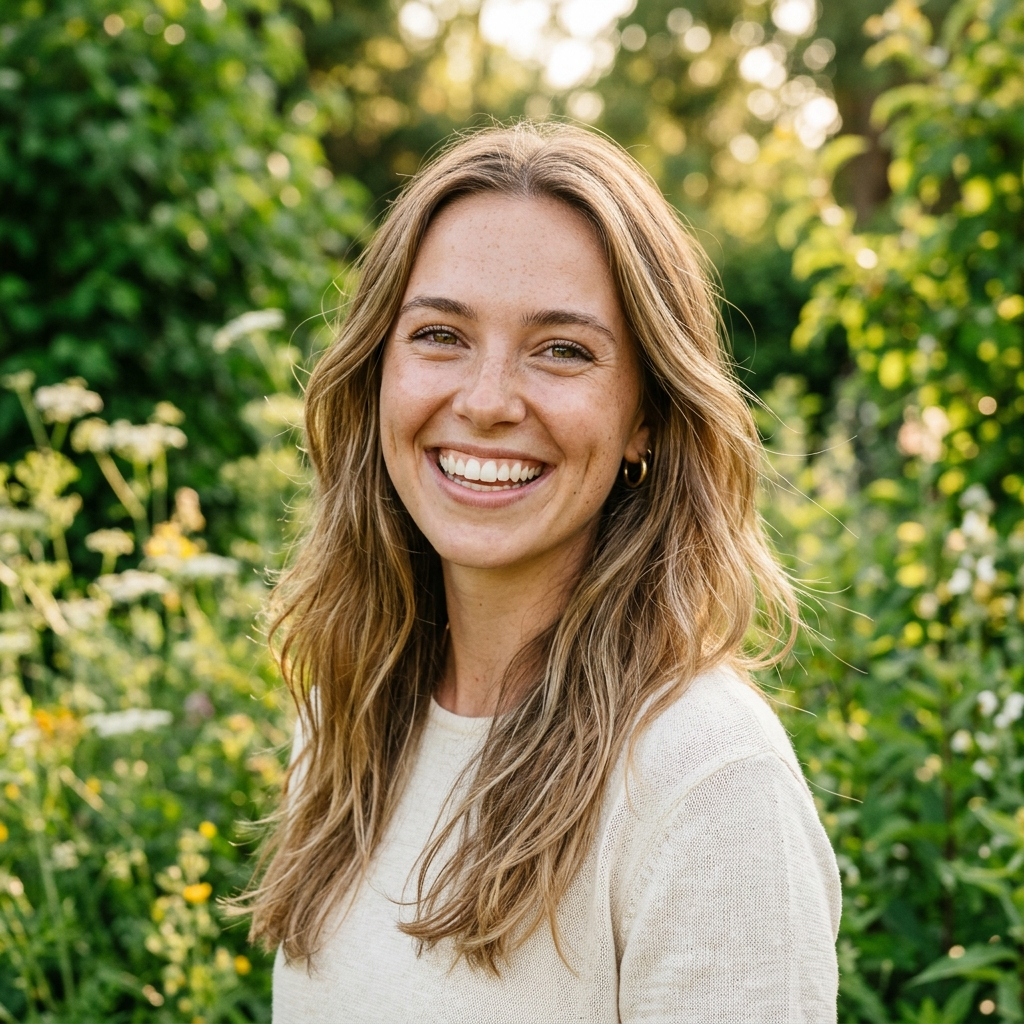
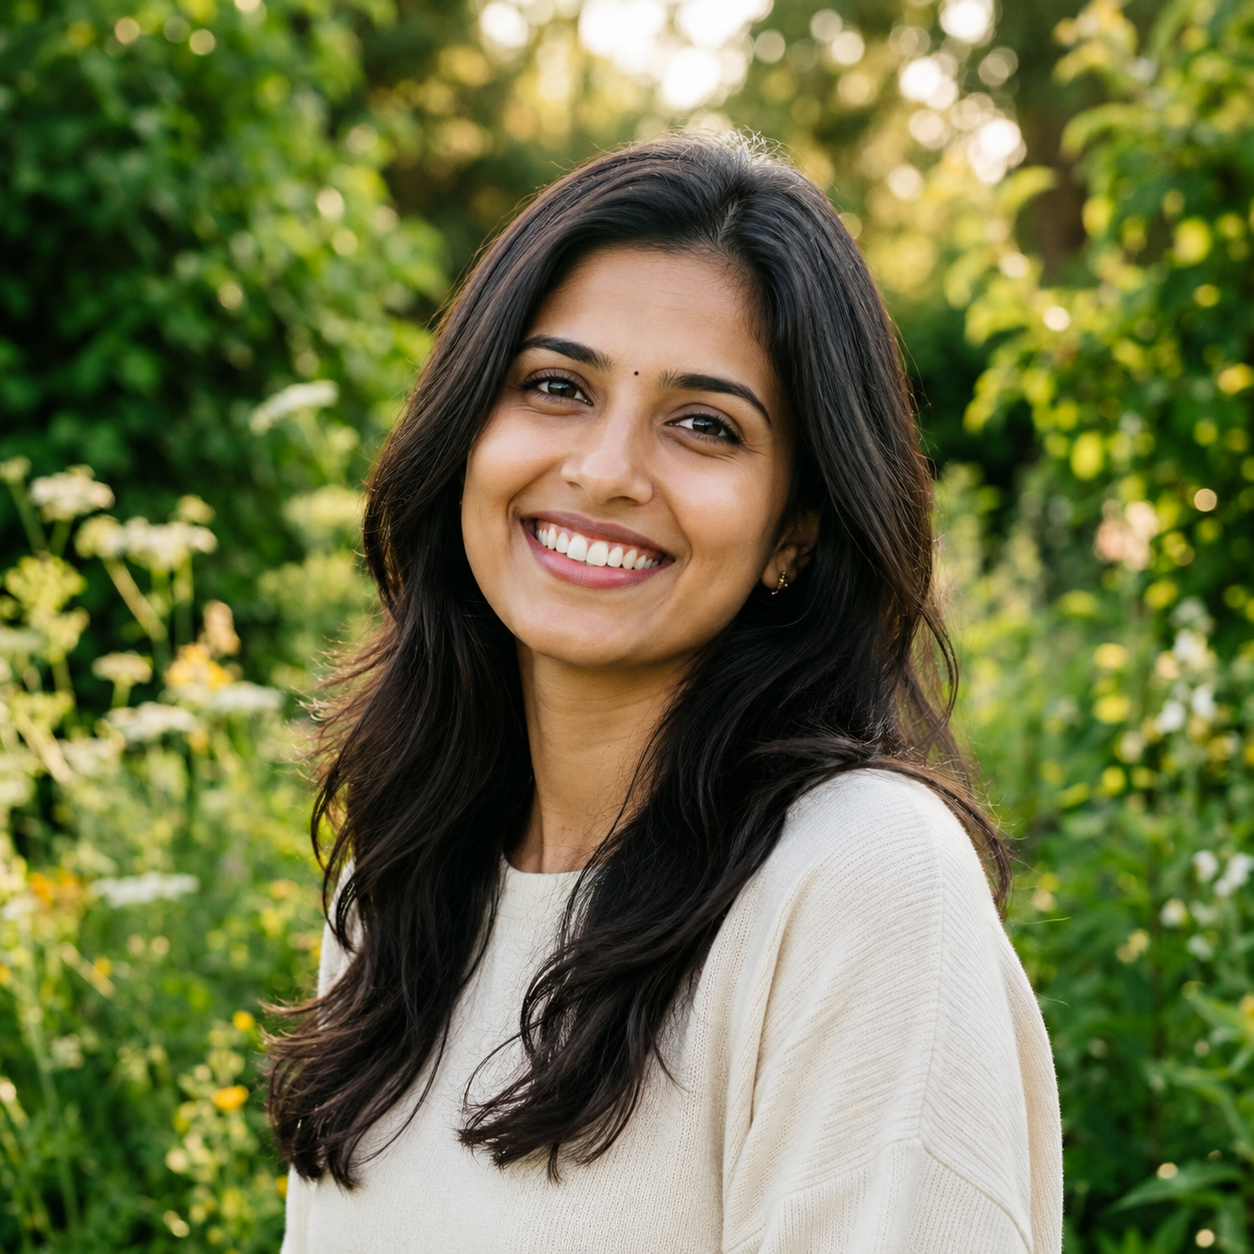
hero updated

diff --git a/pages/terms.html b/pages/terms.html
@@ -1,4 +1,4 @@
-<!DOCTYPE html>
+<!DOCTYPE html>
 <html lang="en">
 <head>
   <meta charset="UTF-8" />
@@ -14,9 +14,11 @@
   <meta name="ICBM" content="12.9349056, 80.2304055" />
   <meta name="language" content="English" />
   <meta name="revisit-after" content="30 days" />
-  <link rel="icon" type="image/png" href="../assets/icons/image.png?v=4" />
-  <link rel="shortcut icon" type="image/png" href="../assets/icons/image.png?v=4" />
-  <link rel="apple-touch-icon" href="../assets/icons/image.png?v=4" />
+  <link rel="icon" type="image/x-icon" href="../favicon.ico?v=5" />
+  <link rel="icon" type="image/png" sizes="32x32" href="../assets/icons/favicon-32x32.png?v=5" />
+  <link rel="icon" type="image/png" sizes="16x16" href="../assets/icons/favicon-16x16.png?v=5" />
+  <link rel="apple-touch-icon" sizes="180x180" href="../assets/icons/apple-touch-icon.png?v=5" />
+  <link rel="manifest" href="../site.webmanifest" />
   <meta name="theme-color" content="#0F766E" />
   <meta name="msapplication-navbutton-color" content="#0F766E" />
   <meta name="apple-mobile-web-app-status-bar-style" content="#0F766E" />
@@ -25,7 +27,7 @@
   <meta property="og:url" content="https://sansdentalstudio.com/pages/terms.html" />
   <meta property="og:title" content="Terms of Service | Sans Dental Studio" />
   <meta property="og:description" content="Appointment guidelines, treatment consent, and financial terms for Sans Dental Studio – boutique dental care in Thoraipakkam, Chennai." />
-  <meta property="og:image" content="https://sansdentalstudio.com/assets/icons/logo.png" />
+  <meta property="og:image" content="https://sansdentalstudio.com/assets/icons/image.png" />
   <meta property="og:image:width" content="512" />
   <meta property="og:image:height" content="512" />
   <meta property="og:image:type" content="image/png" />
@@ -37,7 +39,7 @@
   <meta property="twitter:url" content="https://sansdentalstudio.com/pages/terms.html" />
   <meta property="twitter:title" content="Terms of Service | Sans Dental Studio" />
   <meta property="twitter:description" content="Appointment guidelines, treatment consent, and financial terms for Sans Dental Studio – boutique dental care in Thoraipakkam, Chennai." />
-  <meta property="twitter:image" content="https://sansdentalstudio.com/assets/icons/logo.png" />
+  <meta property="twitter:image" content="https://sansdentalstudio.com/assets/icons/image.png" />
 
   <link rel="canonical" href="https://sansdentalstudio.com/pages/terms.html" />
   <link rel="sitemap" type="application/xml" href="../sitemap.xml" />

diff --git a/pages/privacy.html b/pages/privacy.html
@@ -1,4 +1,4 @@
-<!DOCTYPE html>
+<!DOCTYPE html>
 <html lang="en">
 <head>
   <meta charset="UTF-8" />
@@ -14,9 +14,11 @@
   <meta name="ICBM" content="12.9349056, 80.2304055" />
   <meta name="language" content="English" />
   <meta name="revisit-after" content="30 days" />
-  <link rel="icon" type="image/png" href="../assets/icons/image.png?v=4" />
-  <link rel="shortcut icon" type="image/png" href="../assets/icons/image.png?v=4" />
-  <link rel="apple-touch-icon" href="../assets/icons/image.png?v=4" />
+  <link rel="icon" type="image/x-icon" href="../favicon.ico?v=5" />
+  <link rel="icon" type="image/png" sizes="32x32" href="../assets/icons/favicon-32x32.png?v=5" />
+  <link rel="icon" type="image/png" sizes="16x16" href="../assets/icons/favicon-16x16.png?v=5" />
+  <link rel="apple-touch-icon" sizes="180x180" href="../assets/icons/apple-touch-icon.png?v=5" />
+  <link rel="manifest" href="../site.webmanifest" />
   <meta name="theme-color" content="#0F766E" />
   <meta name="msapplication-navbutton-color" content="#0F766E" />
   <meta name="apple-mobile-web-app-status-bar-style" content="#0F766E" />
@@ -25,7 +27,7 @@
   <meta property="og:url" content="https://sansdentalstudio.com/pages/privacy.html" />
   <meta property="og:title" content="Privacy Policy | Sans Dental Studio" />
   <meta property="og:description" content="How Sans Dental Studio handles your personal and clinical information with care and confidentiality." />
-  <meta property="og:image" content="https://sansdentalstudio.com/assets/icons/logo.png" />
+  <meta property="og:image" content="https://sansdentalstudio.com/assets/icons/image.png" />
   <meta property="og:image:width" content="512" />
   <meta property="og:image:height" content="512" />
   <meta property="og:image:type" content="image/png" />
@@ -37,7 +39,7 @@
   <meta property="twitter:url" content="https://sansdentalstudio.com/pages/privacy.html" />
   <meta property="twitter:title" content="Privacy Policy | Sans Dental Studio" />
   <meta property="twitter:description" content="How Sans Dental Studio handles your personal and clinical information with care and confidentiality." />
-  <meta property="twitter:image" content="https://sansdentalstudio.com/assets/icons/logo.png" />
+  <meta property="twitter:image" content="https://sansdentalstudio.com/assets/icons/image.png" />
 
   <link rel="canonical" href="https://sansdentalstudio.com/pages/privacy.html" />
   <link rel="sitemap" type="application/xml" href="../sitemap.xml" />

diff --git a/pages/service.html b/pages/service.html
@@ -1,4 +1,4 @@
-<!doctype html>
+<!doctype html>
 <html lang="en">
   <head>
     <meta charset="UTF-8" />
@@ -14,9 +14,11 @@
     <meta name="ICBM" content="12.9349056, 80.2304055" />
     <meta name="language" content="English" />
     <meta name="revisit-after" content="7 days" />
-    <link rel="icon" type="image/png" href="../assets/icons/image.png?v=4" />
-    <link rel="shortcut icon" type="image/png" href="../assets/icons/image.png?v=4" />
-    <link rel="apple-touch-icon" href="../assets/icons/image.png?v=4" />
+    <link rel="icon" type="image/x-icon" href="../favicon.ico?v=5" />
+    <link rel="icon" type="image/png" sizes="32x32" href="../assets/icons/favicon-32x32.png?v=5" />
+    <link rel="icon" type="image/png" sizes="16x16" href="../assets/icons/favicon-16x16.png?v=5" />
+    <link rel="apple-touch-icon" sizes="180x180" href="../assets/icons/apple-touch-icon.png?v=5" />
+    <link rel="manifest" href="../site.webmanifest" />
     <meta name="theme-color" content="#0F766E" />
     <meta name="msapplication-navbutton-color" content="#0F766E" />
     <meta name="apple-mobile-web-app-status-bar-style" content="#0F766E" />
@@ -24,7 +26,7 @@
     <meta property="og:url" content="https://sansdentalstudio.com/pages/service.html" />
     <meta property="og:title" content="Our Services | Sans Dental Studio" />
     <meta property="og:description" content="Professional dental solutions tailored to your unique smile goals. Discover our comprehensive services today." />
-    <meta property="og:image" content="https://sansdentalstudio.com/assets/icons/logo.png" />
+    <meta property="og:image" content="https://sansdentalstudio.com/assets/icons/image.png" />
     <meta property="og:image:width" content="512" />
     <meta property="og:image:height" content="512" />
     <meta property="og:image:type" content="image/png" />
@@ -56,7 +58,7 @@
         "@id": "https://sansdentalstudio.com/#dentist",
         "name": "Sans Dental Studio",
         "url": "https://sansdentalstudio.com/",
-        "logo": "https://sansdentalstudio.com/assets/icons/logo.png",
+        "logo": "https://sansdentalstudio.com/assets/icons/image.png",
         "telephone": "+919941055547"
       },
       {

diff --git a/pages/contact.html b/pages/contact.html
@@ -1,4 +1,4 @@
-<!doctype html>
+<!doctype html>
 <html lang="en">
   <head>
     <meta charset="UTF-8" />
@@ -14,9 +14,11 @@
     <meta name="ICBM" content="12.9349056, 80.2304055" />
     <meta name="language" content="English" />
     <meta name="revisit-after" content="7 days" />
-    <link rel="icon" type="image/png" href="../assets/icons/image.png?v=4" />
-    <link rel="shortcut icon" type="image/png" href="../assets/icons/image.png?v=4" />
-    <link rel="apple-touch-icon" href="../assets/icons/image.png?v=4" />
+    <link rel="icon" type="image/x-icon" href="../favicon.ico?v=5" />
+    <link rel="icon" type="image/png" sizes="32x32" href="../assets/icons/favicon-32x32.png?v=5" />
+    <link rel="icon" type="image/png" sizes="16x16" href="../assets/icons/favicon-16x16.png?v=5" />
+    <link rel="apple-touch-icon" sizes="180x180" href="../assets/icons/apple-touch-icon.png?v=5" />
+    <link rel="manifest" href="../site.webmanifest" />
     <meta name="theme-color" content="#0F766E" />
     <meta name="msapplication-navbutton-color" content="#0F766E" />
     <meta name="apple-mobile-web-app-status-bar-style" content="#0F766E" />
@@ -24,7 +26,7 @@
     <meta property="og:url" content="https://sansdentalstudio.com/pages/contact.html" />
     <meta property="og:title" content="Contact Us | Sans Dental Studio" />
     <meta property="og:description" content="Get in touch with Sans Dental Studio. We are committed to providing you with the best dental care." />
-    <meta property="og:image" content="https://sansdentalstudio.com/assets/icons/logo.png" />
+    <meta property="og:image" content="https://sansdentalstudio.com/assets/icons/image.png" />
     <meta property="og:image:width" content="512" />
     <meta property="og:image:height" content="512" />
     <meta property="og:image:type" content="image/png" />

diff --git a/pages/gallery.html b/pages/gallery.html
@@ -1,4 +1,4 @@
-<!doctype html>
+<!doctype html>
 <html lang="en">
   <head>
     <meta charset="UTF-8" />
@@ -14,9 +14,11 @@
     <meta name="ICBM" content="12.9349056, 80.2304055" />
     <meta name="language" content="English" />
     <meta name="revisit-after" content="7 days" />
-    <link rel="icon" type="image/png" href="../assets/icons/image.png?v=4" />
-    <link rel="shortcut icon" type="image/png" href="../assets/icons/image.png?v=4" />
-    <link rel="apple-touch-icon" href="../assets/icons/image.png?v=4" />
+    <link rel="icon" type="image/x-icon" href="../favicon.ico?v=5" />
+    <link rel="icon" type="image/png" sizes="32x32" href="../assets/icons/favicon-32x32.png?v=5" />
+    <link rel="icon" type="image/png" sizes="16x16" href="../assets/icons/favicon-16x16.png?v=5" />
+    <link rel="apple-touch-icon" sizes="180x180" href="../assets/icons/apple-touch-icon.png?v=5" />
+    <link rel="manifest" href="../site.webmanifest" />
     <meta name="theme-color" content="#0F766E" />
     <meta name="msapplication-navbutton-color" content="#0F766E" />
     <meta name="apple-mobile-web-app-status-bar-style" content="#0F766E" />
@@ -24,7 +26,7 @@
     <meta property="og:url" content="https://sansdentalstudio.com/pages/gallery.html" />
     <meta property="og:title" content="Gallery | Sans Dental Studio" />
     <meta property="og:description" content="Experience the art of care. Step into our boutique dental environment through our photo gallery." />
-    <meta property="og:image" content="https://sansdentalstudio.com/assets/icons/logo.png" />
+    <meta property="og:image" content="https://sansdentalstudio.com/assets/icons/image.png" />
     <meta property="og:image:width" content="512" />
     <meta property="og:image:height" content="512" />
     <meta property="og:image:type" content="image/png" />

diff --git a/pages/about.html b/pages/about.html
@@ -1,4 +1,4 @@
-<!DOCTYPE html>
+<!DOCTYPE html>
 <html lang="en">
 <head>
   <meta charset="UTF-8" />
@@ -14,9 +14,11 @@
   <meta name="ICBM" content="12.9349056, 80.2304055" />
   <meta name="language" content="English" />
   <meta name="revisit-after" content="7 days" />
-  <link rel="icon" type="image/png" href="../assets/icons/image.png?v=4" />
-  <link rel="shortcut icon" type="image/png" href="../assets/icons/image.png?v=4" />
-  <link rel="apple-touch-icon" href="../assets/icons/image.png?v=4" />
+  <link rel="icon" type="image/x-icon" href="../favicon.ico?v=5" />
+  <link rel="icon" type="image/png" sizes="32x32" href="../assets/icons/favicon-32x32.png?v=5" />
+  <link rel="icon" type="image/png" sizes="16x16" href="../assets/icons/favicon-16x16.png?v=5" />
+  <link rel="apple-touch-icon" sizes="180x180" href="../assets/icons/apple-touch-icon.png?v=5" />
+  <link rel="manifest" href="../site.webmanifest" />
   <meta name="theme-color" content="#0F766E" />
   <meta name="msapplication-navbutton-color" content="#0F766E" />
   <meta name="apple-mobile-web-app-status-bar-style" content="#0F766E" />
@@ -24,7 +26,7 @@
   <meta property="og:url" content="https://sansdentalstudio.com/pages/about.html" />
   <meta property="og:title" content="About Us | Sans Dental Studio" />
   <meta property="og:description" content="Experience excellence in dentistry crafted with care. Meet our team and discover why patients trust Sans Dental Studio." />
-  <meta property="og:image" content="https://sansdentalstudio.com/assets/icons/logo.png" />
+  <meta property="og:image" content="https://sansdentalstudio.com/assets/icons/image.png" />
   <meta property="og:image:width" content="512" />
   <meta property="og:image:height" content="512" />
   <meta property="og:image:type" content="image/png" />

diff --git a/index.html b/index.html
@@ -1,4 +1,4 @@
-<!doctype html>
+<!doctype html>
 <html lang="en">
   <head>
     <meta charset="UTF-8" />
@@ -15,9 +15,11 @@
     <meta name="language" content="English" />
     <meta name="rating" content="general" />
     <meta name="revisit-after" content="7 days" />
-    <link rel="icon" type="image/png" href="./assets/icons/image.png?v=4" />
-    <link rel="shortcut icon" type="image/png" href="./assets/icons/image.png?v=4" />
-    <link rel="apple-touch-icon" href="./assets/icons/image.png?v=4" />
+    <link rel="icon" type="image/x-icon" href="./favicon.ico?v=5" />
+    <link rel="icon" type="image/png" sizes="32x32" href="./assets/icons/favicon-32x32.png?v=5" />
+    <link rel="icon" type="image/png" sizes="16x16" href="./assets/icons/favicon-16x16.png?v=5" />
+    <link rel="apple-touch-icon" sizes="180x180" href="./assets/icons/apple-touch-icon.png?v=5" />
+    <link rel="manifest" href="./site.webmanifest" />
     <meta name="theme-color" content="#0F766E" />
     <meta name="msapplication-navbutton-color" content="#0F766E" />
     <meta name="apple-mobile-web-app-status-bar-style" content="#0F766E" />
@@ -77,7 +79,7 @@
       "image": "https://sansdentalstudio.com/assets/images/hero-img.png",
       "logo": {
         "@type": "ImageObject",
-        "url": "https://sansdentalstudio.com/assets/icons/logo.png",
+        "url": "https://sansdentalstudio.com/assets/icons/image.png",
         "width": 512,
         "height": 512
       },

diff --git a/404.html b/404.html
@@ -1,4 +1,4 @@
-<!DOCTYPE html>
+<!DOCTYPE html>
 <html lang="en">
 <head>
   <meta charset="UTF-8" />
@@ -6,8 +6,11 @@
   <title>Page Not Found | Sans Dental Studio</title>
   <meta name="description" content="The page you are looking for could not be found. Return to Sans Dental Studio homepage." />
   <meta name="robots" content="noindex, follow" />
-  <link rel="icon" type="image/png" href="./assets/icons/image.png?v=4" />
-  <link rel="shortcut icon" type="image/png" href="./assets/icons/image.png?v=4" />
+  <link rel="icon" type="image/x-icon" href="./favicon.ico?v=5" />
+  <link rel="icon" type="image/png" sizes="32x32" href="./assets/icons/favicon-32x32.png?v=5" />
+  <link rel="icon" type="image/png" sizes="16x16" href="./assets/icons/favicon-16x16.png?v=5" />
+  <link rel="apple-touch-icon" sizes="180x180" href="./assets/icons/apple-touch-icon.png?v=5" />
+  <link rel="manifest" href="./site.webmanifest" />
   <meta name="theme-color" content="#0F766E" />
   <link rel="preconnect" href="https://fonts.googleapis.com" />
   <link rel="preconnect" href="https://fonts.gstatic.com" crossorigin />
